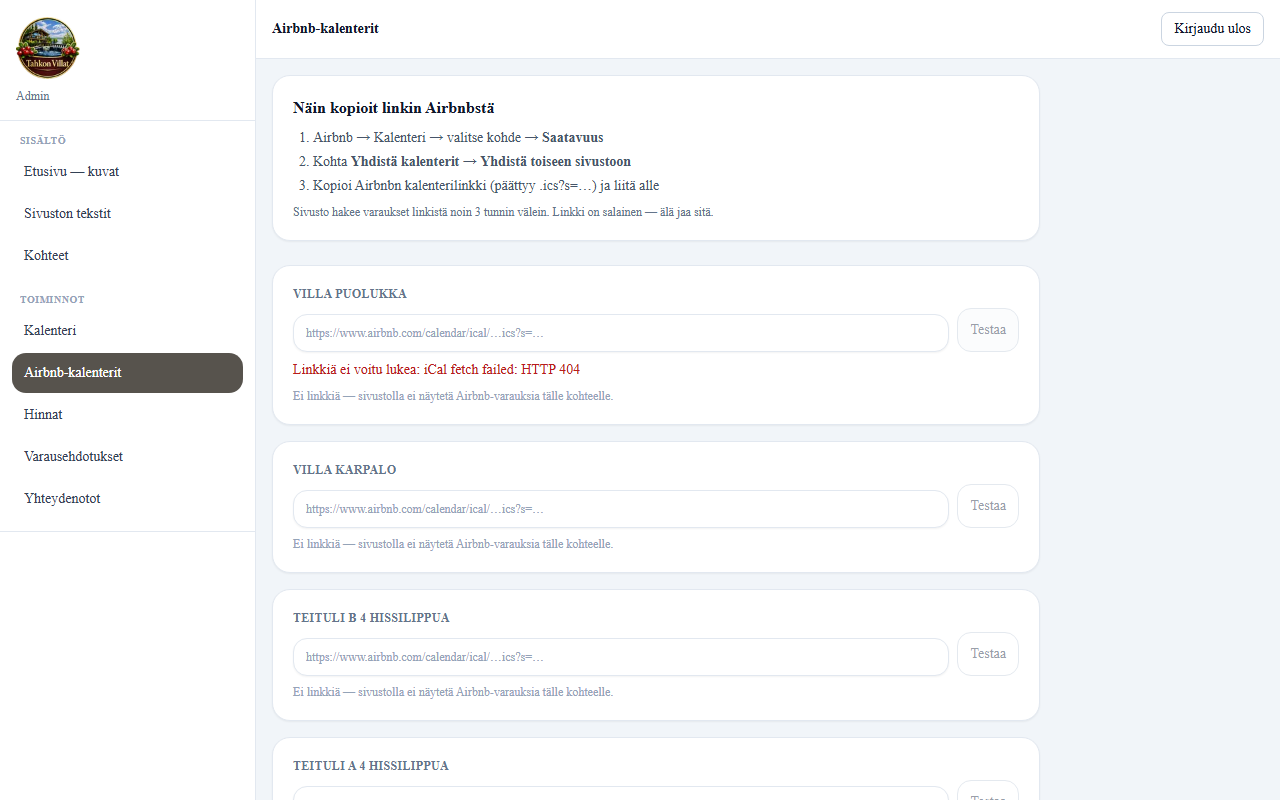
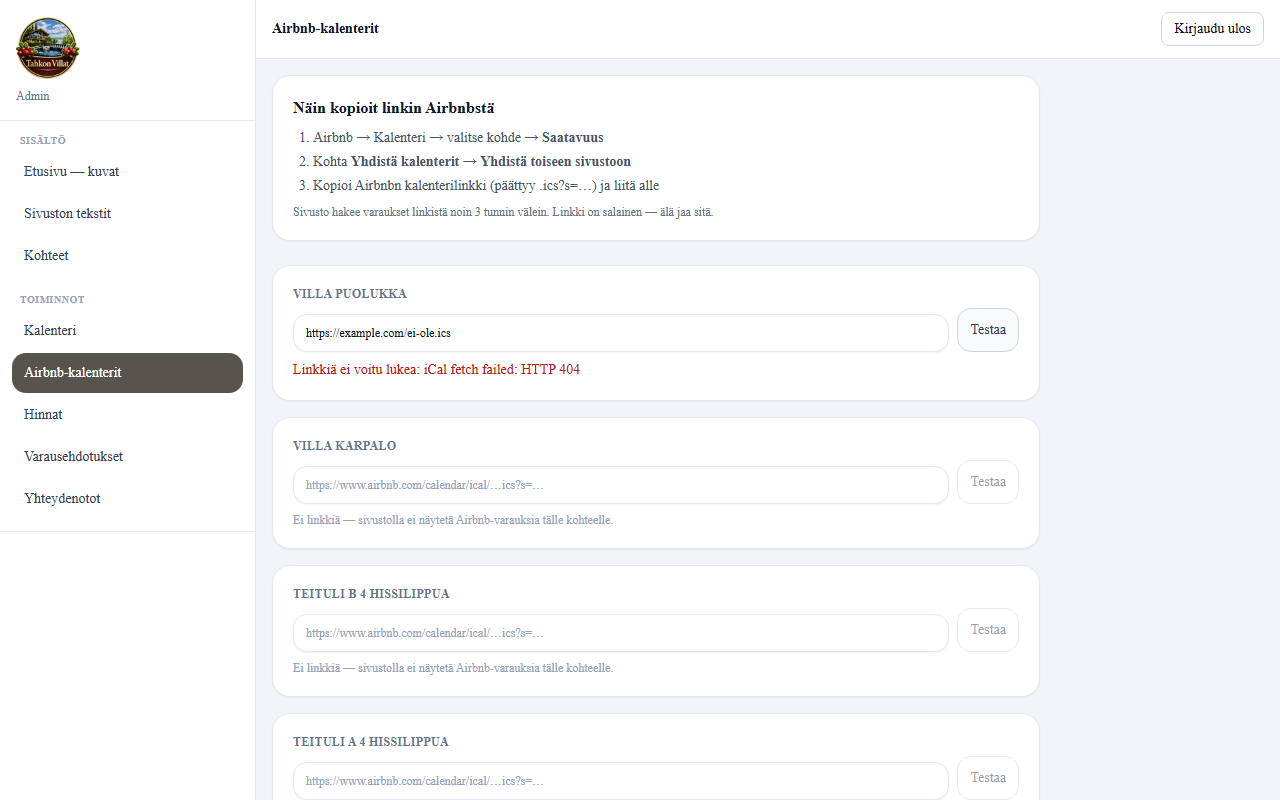
fix(brand): nimi näkyi navissa kahdesti — vaakatunnus vaatii nyt tekstittömän merkin
Nykyisessä tunnuksessa "Tahkon Villat" on kuvan sisällä, joten viereen ladottu
nimi toisti sen. Vaakatunnus kytkeytyy päälle vasta kun asiakkaan tekstitön
merkki on paikallaan (public/images/logo-mark-plain.png + markPlainAvailable).
Siihen asti navissa on pelkkä tunnus.

diff --git a/src/components/layout/Logo.tsx b/src/components/layout/Logo.tsx
@@ -2,17 +2,24 @@
 
 import Image from "next/image";
 import { Link } from "@/i18n/navigation";
-import { BRAND_LOGO, BRAND_NAME } from "@/lib/constants";
+import { BRAND_LOGO, BRAND_MARK_PLAIN, BRAND_NAME } from "@/lib/constants";
 
 type Props = {
-  /** nav = pelkkä merkki · nav-horizontal = merkki + nimi vierekkäin (md+) · footer = iso merkki */
+  /**
+   * nav = pelkkä tunnus · nav-horizontal = merkki + nimi vierekkäin ·
+   * footer = iso tunnus.
+   *
+   * "nav-horizontal" vaatii tekstittömän merkin (`BRAND_MARK_PLAIN`). Ilman sitä
+   * se palautuu pelkkään tunnukseen, koska nykyisessä kuvassa nimi on jo sisällä
+   * eikä sitä pidä toistaa vieressä.
+   */
   variant?: "nav" | "nav-horizontal" | "footer";
   className?: string;
   linked?: boolean;
   priority?: boolean;
   /** Large hero nav logo — shrinks when user scrolls */
   expanded?: boolean;
-  /** Vaakaversion nimen sävy (hero-tilassa vaalea). */
+  /** Vaakatunnuksen nimen sävy (hero-tilassa vaalea). */
   tone?: "dark" | "light";
 };
 
@@ -24,11 +31,10 @@ export function Logo({
   expanded = false,
   tone = "dark",
 }: Props) {
+  const horizontal = variant === "nav-horizontal" && BRAND_MARK_PLAIN !== null;
   let content: React.ReactNode;
 
-  if (variant === "nav-horizontal") {
-    // Merkki + ladottu nimi: skaalautuu tarkasti navin korkeuteen ja käyttää
-    // sivuston omaa Cormorant-fonttia. Nimi piiloutuu mobiilissa (pelkkä merkki).
+  if (horizontal) {
     const markClass = expanded ? "h-14 w-14 sm:h-16 sm:w-16" : "h-11 w-11 sm:h-12 sm:w-12";
     content = (
       <span className={`inline-flex items-center gap-3 ${className}`}>
@@ -36,7 +42,7 @@ export function Logo({
           className={`relative inline-flex shrink-0 transition-all duration-300 ease-out-expo ${markClass}`}
         >
           <Image
-            src={BRAND_LOGO}
+            src={BRAND_MARK_PLAIN as string}
             alt=""
             fill
             priority={priority}

diff --git a/src/lib/site.config.ts b/src/lib/site.config.ts
@@ -5,7 +5,17 @@
 export const siteConfig = {
   brand: {
     name: "Tahkon Villat",
+    /** Täysi tunnus. Nykyisessä kuvassa nimi on kuvan sisällä. */
     logo: "/images/tahkon-villat-logo.png",
+    /**
+     * Pelkkä merkki ILMAN "Tahkon Villat" -tekstiä. Kun tämä tiedosto on olemassa,
+     * navigaatio vaihtuu automaattisesti vaakatunnukseen (merkki + ladottu nimi
+     * vieressä), jota asiakas pyysi. Niin kauan kuin tiedostoa ei ole, navissa
+     * näkyy pelkkä täysi tunnus — muuten nimi lukisi kahdesti.
+     * Pudota tiedosto polkuun public/images/logo-mark-plain.png.
+     */
+    markPlain: "/images/logo-mark-plain.png",
+    markPlainAvailable: false,
   },
   contact: {
     email: "pellonkulma.apartments@gmail.com",

diff --git a/src/lib/constants.ts b/src/lib/constants.ts
@@ -3,3 +3,12 @@ import { siteConfig } from "@/lib/site.config";
 export const CONTACT_EMAIL = siteConfig.contact.email;
 export const BRAND_LOGO = siteConfig.brand.logo;
 export const BRAND_NAME = siteConfig.brand.name;
+
+/**
+ * Tekstitön merkki vaakatunnusta varten, tai null jos sitä ei ole vielä toimitettu.
+ * Ks. site.config.ts brand.markPlain — kun tiedosto saapuu ja lippu käännetään
+ * trueksi, navigaatio näyttää merkin + nimen vieressä ilman toistoa.
+ */
+export const BRAND_MARK_PLAIN: string | null = siteConfig.brand.markPlainAvailable
+  ? siteConfig.brand.markPlain
+  : null;
